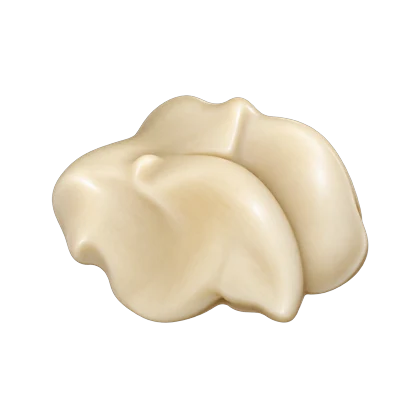
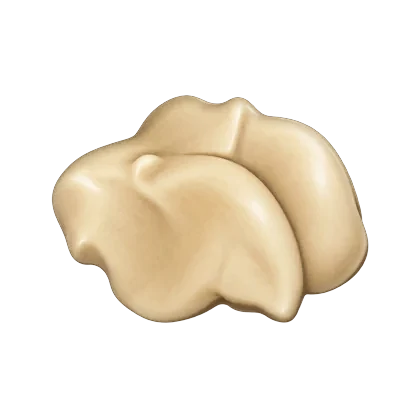
TSOTAN: warm natural bone tone on shagai
Claude-Session: https://claude.ai/code/session_018PCH3AwiVvsN5WyYP3UKjp

diff --git a/demo/tsotan/DESIGN.md b/demo/tsotan/DESIGN.md
@@ -6,7 +6,7 @@ Color: --bez #0e1513 (хүрээ) · --bez2 #16201d · --cotton #f4f1ea · --ink
 Type: Montserrat 800/900 (гарчиг, ТОМ ҮСГЭЭР, giant үгс) · Geologica 300–600 (бичвэр). Ү Ө ₮ шалгасан.
 Radius: panel 28px (утсанд 22), карт 20–22, pill 999.
 Motion: GSAP 3.12.5 + ScrollTrigger + Lenis 1.1.13 (CDN). Intro: hero clip-path нээгдэнэ, гарчгийн мөр доороос; шагай float + хулганы parallax; hero бичлэг scroll-оор томорно; statement үг бүр scrub-аар тодорно; 4 өнгөт scene sticky-гээр давхарлана (дараагийнх нь дээрээс гулсахад өмнөх нь .95 болж, дэвсгэр нь дараагийн өнгө рүү уусна, агуулга нь бүдгэрнэ — хар/brightness filter хэрэглэхгүй), giant үг хэвтээ гүйнэ; бүтээгдэхүүний галерей pin + хэвтээ scrub (desktop), утсанд scroll-snap. GSAP ачаалагдахгүй эсвэл reduced-motion үед бүх агуулга хөдөлгөөнгүй харагдана (CSS-ээр юу ч нуухгүй).
-Images: Higgsfield gpt_image_2_5 — hero (хийсэж буй хээтэй даавуу), шагай (захиалагчийн илгээсэн бодит шагайн 4 талын 2 лавлах зургаар хэлбэрийг нь, анхны цэвэрхэн ясны зургаар өнгө/гадаргууг нь авч gpt_image_2_5 transparent-ээр хийсэн гөлгөр цагаан яс; 4-үүлээ ижил хэмжээ — 420px дөрвөлжин canvas-д ижил талбайтай, CSS width нэг: 104px / утсанд 76px); kling3_0 pro 10s hero бичлэг (start=end → тасралтгүй давталт).
+Images: Higgsfield gpt_image_2_5 — hero (хийсэж буй хээтэй даавуу), шагай (захиалагчийн илгээсэн бодит шагайн 4 талын 2 лавлах зургаар хэлбэрийг нь, анхны цэвэрхэн ясны зургаар өнгө/гадаргууг нь авч gpt_image_2_5 transparent-ээр хийсэн гөлгөр яс, дээр нь локал gradient map-аар зөөлөн шаргал ясны өнгө (62%) нэмсэн; 4-үүлээ ижил хэмжээ — 420px дөрвөлжин canvas-д ижил талбайтай, CSS width нэг: 104px / утсанд 76px); kling3_0 pro 10s hero бичлэг (start=end → тасралтгүй давталт).
 3D cutout (дэвсгэргүй, хөвөгч): 4 scene (cut-*.webp), бүтээгдэхүүний 9 карт (p-*.webp), захиалгат ажлын 3 зураг (c-*.webp). Бүгд захиалагчийн бодит FB зургийг reference болгож gpt_image_2_5-аар 3D студийн зураг болгоод remove_background хийсэн. Lexus цүнхний лого = бодит зургаас авсан хэвлэлийг хоосон цүнхэн дээр буулгасан (AI лого зураагүй).
 Карт/зургийн ард өнгөт дэвсгэр (--c: teal/ochre/cobalt/clay ээлжилнэ) + бүдэг том үг (.gw); объект CSS bob-оор хөвнө, хулганаар 3D хазайна, хэвтээ гүйлгэлтийн хурдаар эргэнэ (rotationY). Дэлгүүрийн зураг (store.webp) = бодит FB зураг; AI-аар студийн гэрэлтэй хувилбар гаргаад зөвхөн гэрэл, өнгийг нь (бага давтамжийн gain map) эх зураг руу шилжүүлсэн — доторх эд зүйл, хээ, бичиг 100% эх зургийнх. Hero stack thumbs = бодит FB зураг.
 Зураг ачаалагдахгүй бол (утсан сүлжээ) 1 удаа дахин ачаална (img retry).
